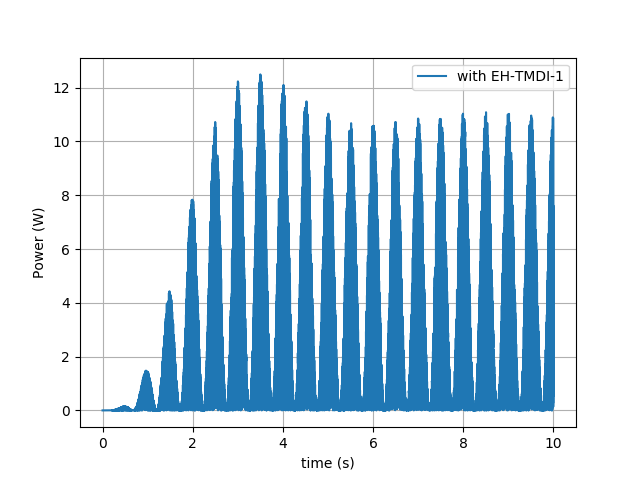
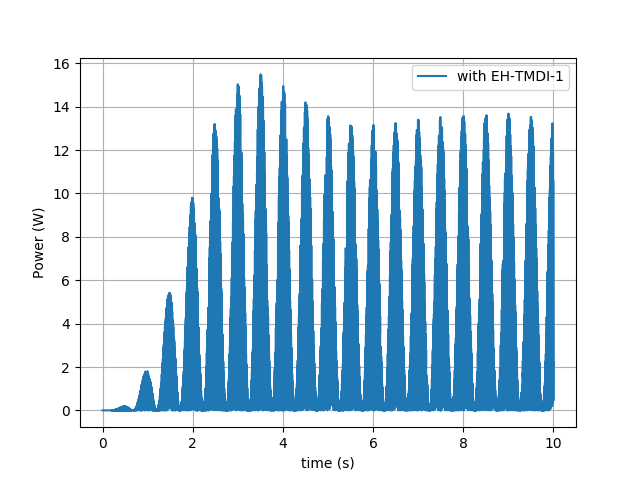
update 0613

diff --git a/force_EHTMDI.py b/force_EHTMDI.py
@@ -13,7 +13,7 @@ beta = 0.1
 f_tmdi = 1/(1+mu+beta)
 zeta_tmdi = sqrt( (3*(mu+beta)) / (8*(1+mu+beta)) )
 
-ms = 1e4
+ms = 1.8e4
 ws = 2*pi*ws_hz
 cs = 2*ms*ws*zeta_s
 ks = ms*ws**2
@@ -28,7 +28,7 @@ k_tmdi = (mt+b)*w_tmdi**2
 t_end = 10
 time = np.linspace(0, t_end, t_end*1e3)
 
-f_wind = 1e3
+f_wind = 2e3
 
 Ri = 2.7
 Re = 3.3
